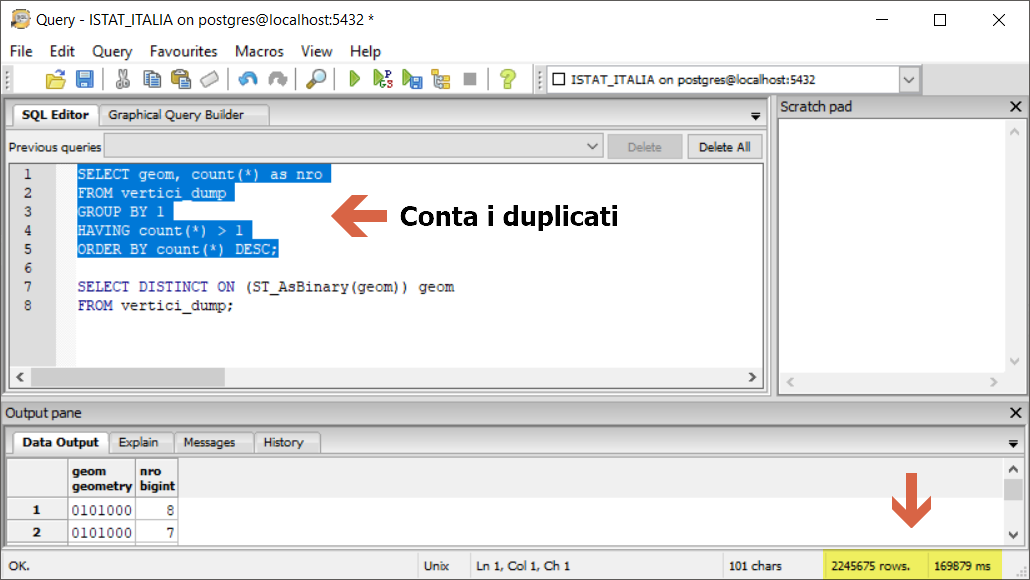
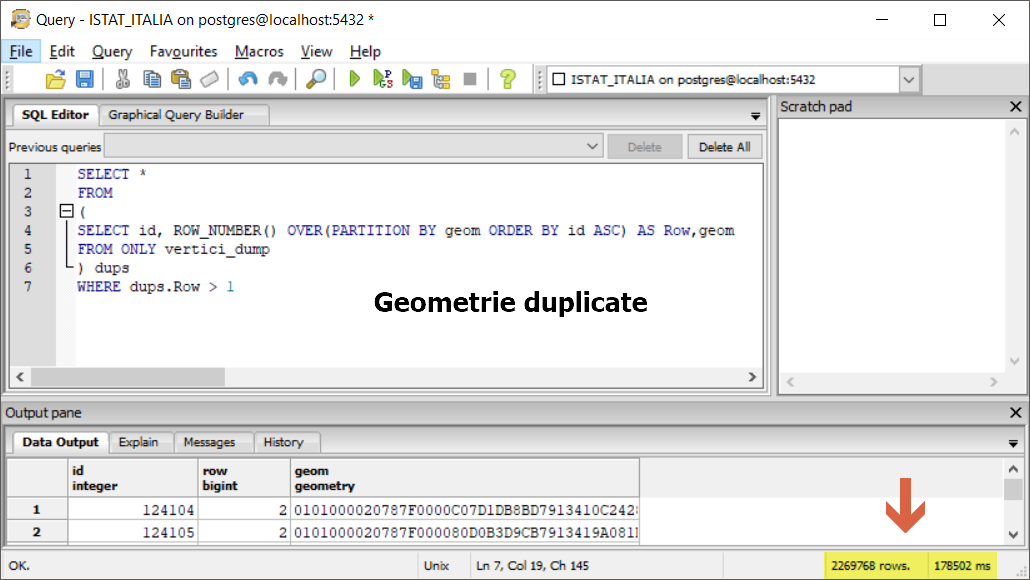
update

diff --git a/prove/Elimina_geom_duplicate.md b/prove/Elimina_geom_duplicate.md
@@ -65,6 +65,16 @@ FROM vertici_dump;
 ![](../img/estrai_vertici/pgAmin3_03.png)
 
 ```
+SELECT * 
+FROM 
+(
+SELECT id, ROW_NUMBER() OVER(PARTITION BY geom ORDER BY id ASC) AS Row,geom 
+FROM ONLY vertici_dump
+) dups 
+WHERE dups.Row > 1
+```
+la seguente restituisce valori diversi, perché?
+```
 SELECT geom, count(*) as nro
 FROM vertici_dump
 GROUP BY 1
@@ -72,7 +82,7 @@ HAVING count(*) > 1
 ORDER BY count(*) DESC;
 ```
 
-# RISULTATI (LZ50)
+# RISULTATI (LZ50) -elimina geometrie duplicate
 
 tempo [sec]|programma
 :---------:|---------

diff --git a/prove/estrai_vertici.md b/prove/estrai_vertici.md
@@ -66,3 +66,7 @@ tempo [sec]|programma
 20|pgAdmin 3 con spatialIndex
 ??|mapshaper
 ??|R + RStudio
+
+nro vertici|nro no duplicati| nro duplicati
+-----------|----------------|--------------
+4.901.723|2.631.955|2.269.768
